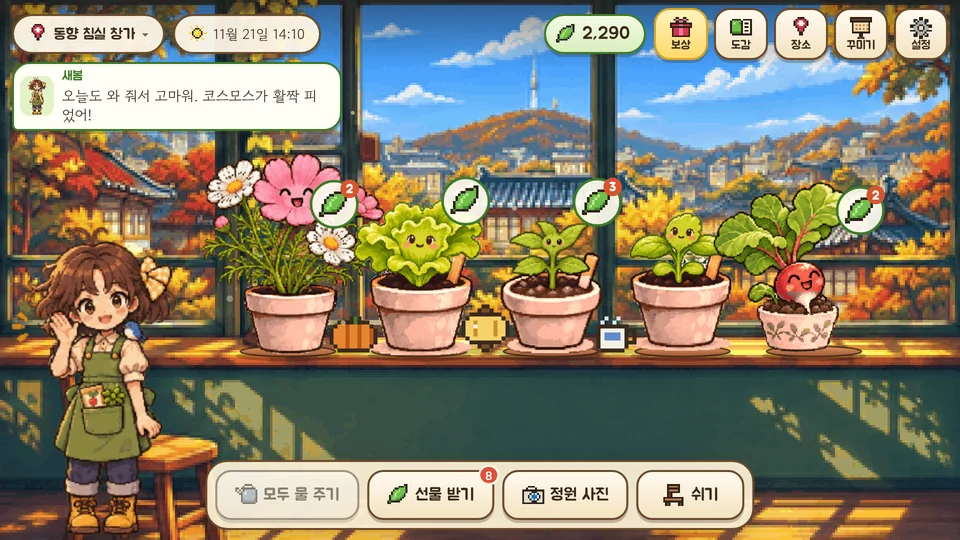
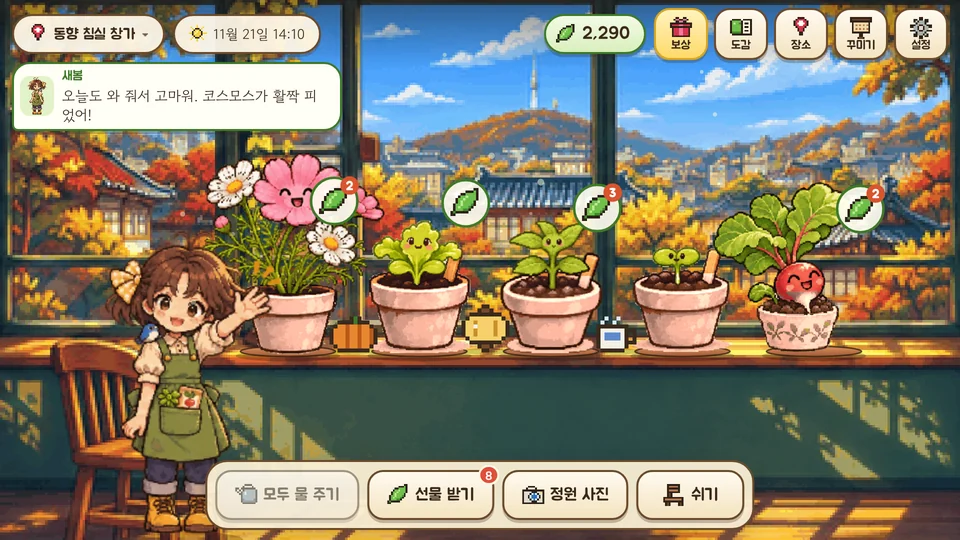
0.12.0: 진짜 시간으로 자라는 식물 · 소개 글과 스크린샷 갱신
Claude-Session: https://claude.ai/code/session_01Fwm1RHwY45EjpCCGqqCbgZ

Changed region(s): [[0.0, 0.4148, 0.3125, 1.0], [0.5938, 0.3259, 0.9375, 0.6519], [0.3125, 0.3259, 0.5312, 0.6815]]

diff --git a/index.html b/index.html
@@ -54,8 +54,8 @@
 <main>
   <h2 id="features">이런 게임이에요</h2>
   <div class="grid">
-    <div class="card"><img src="img/01_garden_day.webp" alt="낮의 창가 정원" loading="lazy"><div><b>심고, 물 주고, 쓰다듬고</b><p>빈 화분에 씨앗을 고르고 물만 주면 알아서 자라요. 첫 씨앗은 몇 분 만에! 식물이 죽는 일은 없어요.</p></div></div>
-    <div class="card"><img src="img/02_complete.webp" alt="식물이 다 자란 축하 화면" loading="lazy"><div><b>다 자라면 축하해요</b><p>빠른 식물은 반나절, 꽃과 나무는 일주일쯤. 다 키우면 잎과 새 씨앗을 받아요.</p></div></div>
+    <div class="card"><img src="img/01_garden_day.webp" alt="낮의 창가 정원" loading="lazy"><div><b>심고, 물 주고, 쓰다듬고</b><p>빈 화분에 씨앗을 고르고 물만 주면 진짜 시간으로 천천히 자라요. 식물이 죽는 일은 없어요.</p></div></div>
+    <div class="card"><img src="img/02_complete.webp" alt="식물이 다 자란 축하 화면" loading="lazy"><div><b>다 자라면 축하해요</b><p>빠른 식물은 하루이틀, 꽃과 나무는 일주일쯤. 다 키우면 잎과 도감 카드를 받아요.</p></div></div>
     <div class="card"><img src="img/03_dex.webp" alt="나만의 식물 도감" loading="lazy"><div><b>나만의 식물 도감 100종</b><p>채소·허브·꽃·관엽·다육·열매와 나무. 그림자 카드를 하나씩 채워 가는 모으는 재미.</p></div></div>
     <div class="card"><img src="img/04_seed_pick.webp" alt="씨앗 고르기" loading="lazy"><div><b>오늘은 뭘 심을까</b><p>식물 100종 모두 처음부터 마음대로 골라 심고, 이름도 지어 줘요.</p></div></div>
     <div class="card"><img src="img/05_rewards.webp" alt="오늘의 보상: 출석 도장과 미션" loading="lazy"><div><b>매일 작은 즐거움</b><p>출석 도장, 오늘의 미션, 빵집 이웃의 편지, 명절 인사가 기다려요.</p></div></div>
